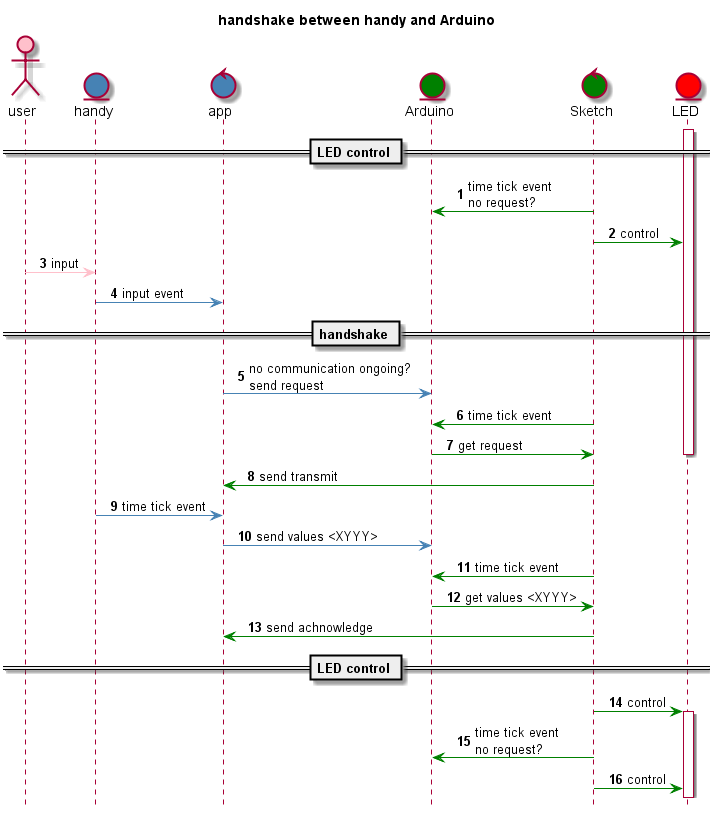
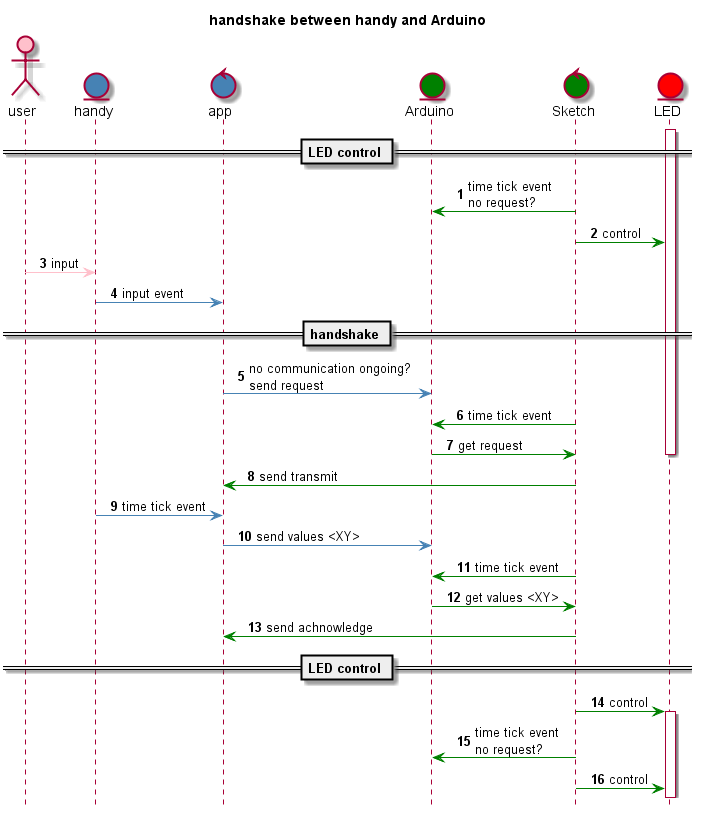
addition of informations

diff --git a/README.md b/README.md
@@ -42,11 +42,12 @@ So finally I realized my project with the following cornerstones.
 A) I let my data transfer only be 4 char long:  
 1 char for the selected color or the selected LED animation together with the selected value of  1 char. Ahead of these 2 chars comes 1 char as a start sign. And afterwards comes 1 char as a stop sign.  
 B) A handshake is implemented this way:  
-If I change a color or a LED animation in the app and there isn't already a communication going on, it first sends only 1 char as a request to the Arduino and wait for the answer. This blocking is wanted because I don't want to start a new communication before an ongoing is processed by both the Arduino and the app.  
-The char lands in the receive buffer of the UART. The sketch looks time triggered into the receive buffer and when it notices the request, it sends a transmit char to the app and stays in the communication state because like I said before, communication and LED control can't work parallel.  
-If the app notices the transmit char, also time triggered, it sends the 4 char data and wait aigan for the acknowledge of the Arduino.
-With the start sign the sketch processes the data until the stop sign shows up. Then it sends the acknowledge sign and turns to the LED control.  
-When the app receives the acknowledge sign it becomes ready for a next transmission.  
+If I change a color or a LED animation in the app (3, 4) and there isn't already a communication going on, it first sends only 1 char as a request to the Arduino and wait for the answer (5). This blocking is wanted because I don't want to start a new communication before an ongoing is processed by both the Arduino and the app.  
+The char lands in the receive buffer of the UART. The sketch looks time triggered into the receive buffer (6) and when it notices the request (7), it sends a transmit char to the app (8) and stays in the communication state because like I said before, communication and LED control can't work parallel.  
+If the app notices the transmit char, also time triggered (9, 10), it sends the 4 char data and wait aigan for the acknowledge of the Arduino. Because the sketch knows at this time that it awaits data it looks time triggered for the start sign (11).
+With the start sign the sketch processes the data until the stop sign shows up (12). Then it sends the acknowledge sign (13) and turns to the LED control (14).  
+When the app receives the acknowledge sign it becomes ready for a next transmission (13).
+The sktech looks periodically in the receive buffer and turns back right away to the LED control if there is no new request (1, 2, 15, 16).  
 C) I use the same time tick for the communication and the pause between the LED animation.  
 
 ![handshake](doc/handshake.png)  
